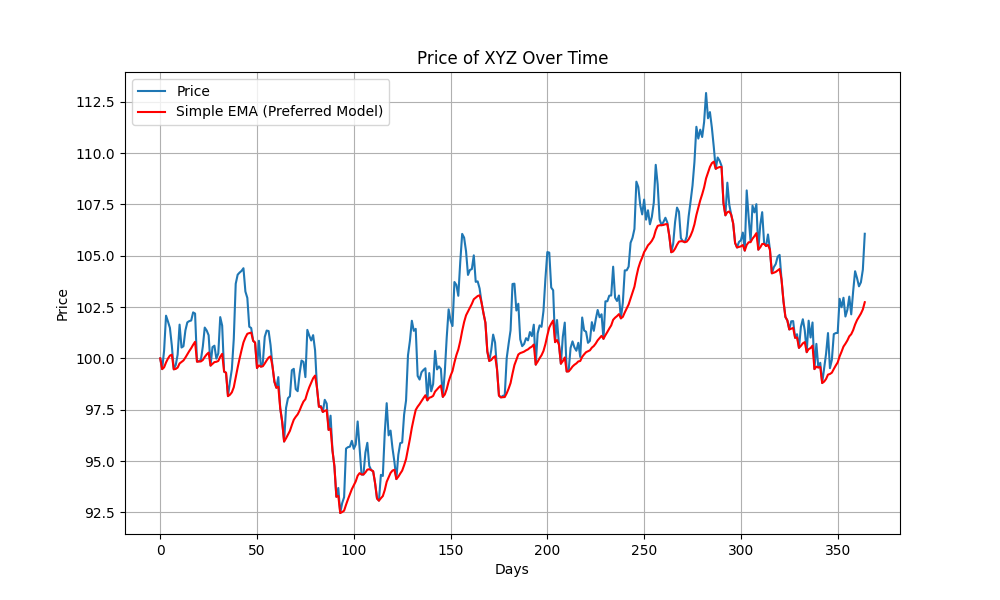
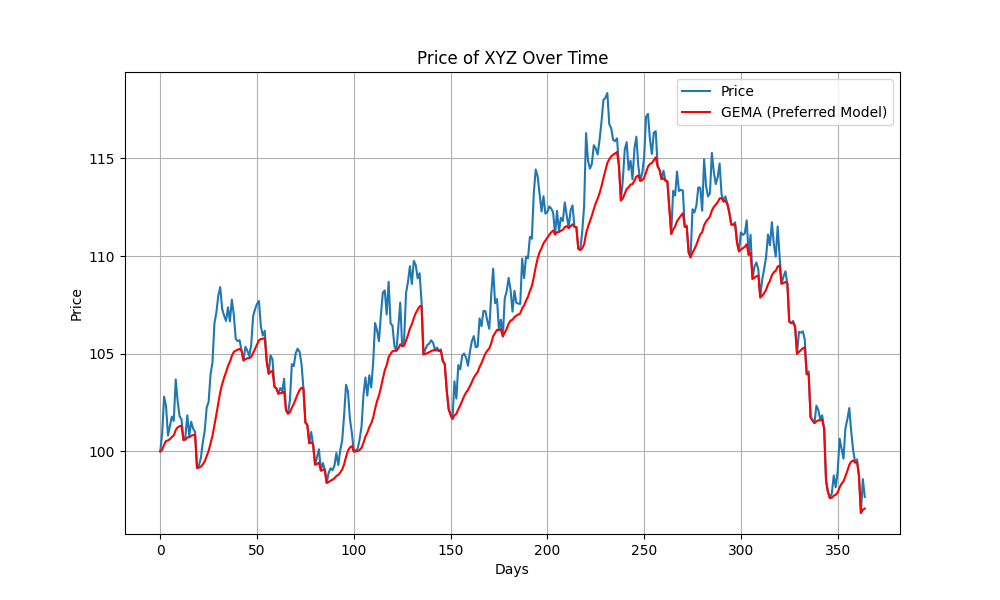
gema rename

diff --git a/oracles.py b/oracles.py
@@ -10,20 +10,9 @@ def generate_price_data(initial_price, num_days, volatility):
         prices.append(new_price)
     return prices
 
-def calculate_modified_ema(prices, period=20):
-    """Calculate Modified Exponential Moving Average."""
-    ema = [prices[0]]
-    multiplier = 2 / (period + 1)
-    for price in prices[1:]:
-        if price < ema[-1]:
-            ema.append(price)  # Immediately adjust to price decrease
-        else:
-            ema.append((price - ema[-1]) * multiplier + ema[-1])  # Use EMA for price increase
-    return ema
-
-def calculate_simple_ema(prices, period=20):
+def calculate_gema(prices, period=20):
     """
-    Calculate Simple Exponential Moving Average with immediate price decrease reflection.
+    Calculate Greater Exponential Moving Average with immediate price decrease reflection.
     
     This is the preferred model for our analysis. It has the following characteristics:
     1. Immediately adjusts to price decreases, providing quick responsiveness to market downturns.
@@ -31,24 +20,24 @@ def calculate_simple_ema(prices, period=20):
     
     This combination allows for quick reaction to potential losses while maintaining trend stability during growth periods.
     """
-    ema = [prices[0]]
+    gema = [prices[0]]
     multiplier = 2 / (period + 1)
     for price in prices[1:]:
-        if price < ema[-1]:
-            ema.append(price)  # Immediately adjust to price decrease
+        if price < gema[-1]:
+            gema.append(price)  # Immediately adjust to price decrease
         else:
-            ema.append((price - ema[-1]) * multiplier + ema[-1])  # Use EMA for price increase
-    return ema
+            gema.append((price - gema[-1]) * multiplier + gema[-1])  # Use EMA for price increase
+    return gema
 
 def plot_asset_price(asset_name, initial_price=100, num_days=365, volatility=1):
     """Plot the price of an asset over time."""
     days = range(num_days)
     prices = generate_price_data(initial_price, num_days, volatility)
-    simple_ema = calculate_simple_ema(prices)
+    gema = calculate_gema(prices)
     
     plt.figure(figsize=(10, 6))
     plt.plot(days, prices, label='Price')
-    plt.plot(days, simple_ema, label='Simple EMA (Preferred Model)', color='red')
+    plt.plot(days, gema, label='GEMA (Preferred Model)', color='red')
     plt.title(f"Price of {asset_name} Over Time")
     plt.xlabel("Days")
     plt.ylabel("Price")
